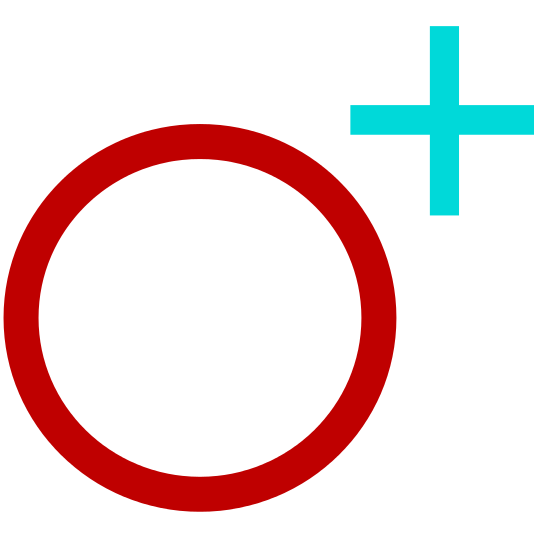
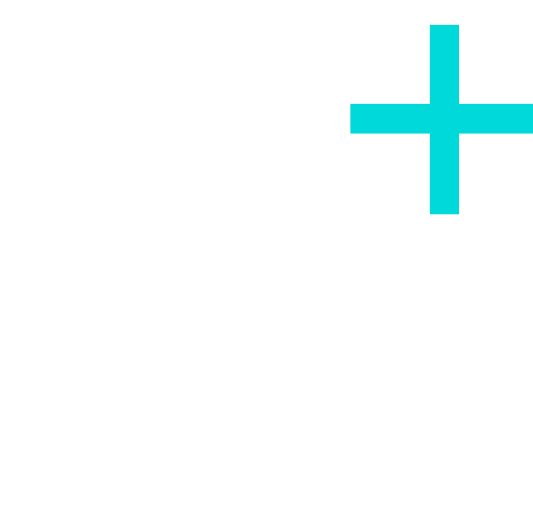
New images for the adding and the deletion of node and edge + New colors and size for some components

diff --git a/src/main/resources/fr/irit/smac/amasrenderer/css/graphButtons.css b/src/main/resources/fr/irit/smac/amasrenderer/css/graphButtons.css
@@ -1,20 +1,17 @@
 .buttonGraph {
-	-fx-background-color: #FFFFFF;
-	-fx-border-color: #404040;
-	-fx-border-width: 0.0 0.0 2.0 0.0;
-}
-
-.lastButtonGraph {
-	-fx-border-width: 0.0;
+	-fx-background-color: linear-gradient( from 0 100 to 100 -100, #c34e4b, #ca6562);
+	-fx-border-color: #db9493;
+	-fx-border-width: 1.5 0.0 0.0 1.5;
 }
 
 .buttonGraph:hover {
+	-fx-background-color: linear-gradient( from 0 100 to 100 -100, #b4231f, #c34e4b);
 }
 
 .buttonGraph:selected {
-	-fx-background-color: #CCCCCC;
+	-fx-background-color: linear-gradient( from 0 100 to 100 -100, #a21f1b, #b4231f);
 }
 
-#containerButtonGraph {
-	-fx-background-color: #A0A0A0;
+.lastButtonGraph {
+	-fx-border-width: 1.5 0.0 1.5 1.5;
 }

diff --git a/src/main/resources/fr/irit/smac/amasrenderer/css/main.css b/src/main/resources/fr/irit/smac/amasrenderer/css/main.css
@@ -3,18 +3,8 @@
     -fx-font-family: "OpenSymbol";
 }
 
-
-#bigTitle {
-	-fx-background-color: #CCCCCC;
-	-fx-border-color: #FFFFFF;
-	-fx-border-width: 3.0px;
-	-fx-text-fill: #FFFFFF;
-}
-
 .categoryTitle {
-	-fx-background-color: #707070;
-	-fx-border-color: #CCCCCC;
-	-fx-border-width: 3.0px;
+	-fx-background-color: linear-gradient( from 0 100 to 100 -100, #b4231f, #c34e4b);
 	-fx-font-size: 23.0px;
     -fx-font-family: "OpenSans";
 }
@@ -34,4 +24,12 @@
 
 .secondaryWindow {
 	 -fx-opacity: 0.7;
+}
+
+#buttonAddService {
+	-fx-background-color: #EEE;
+}
+
+#buttonAddService:hover {
+	-fx-background-color: #DDD;
 }

diff --git a/src/main/resources/fr/irit/smac/amasrenderer/css/graphTitle.css b/src/main/resources/fr/irit/smac/amasrenderer/css/graphTitle.css
@@ -1,0 +1,4 @@
+#mapTitle {
+	-fx-text-fill: #b4231f;
+	-fx-padding: 0 0 0 2em;
+}
